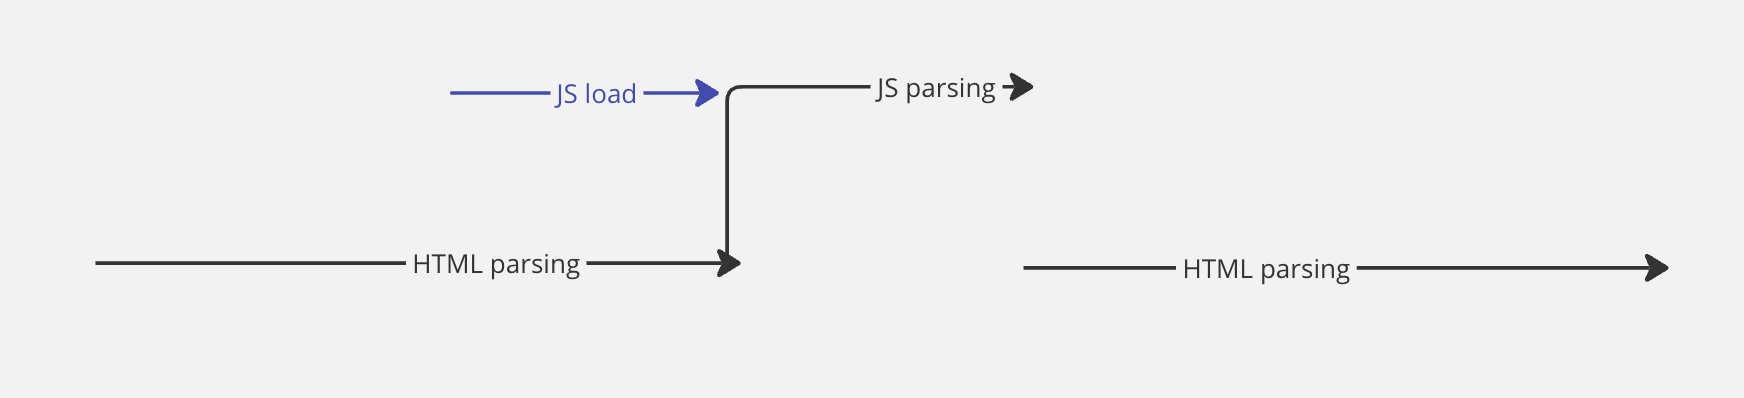
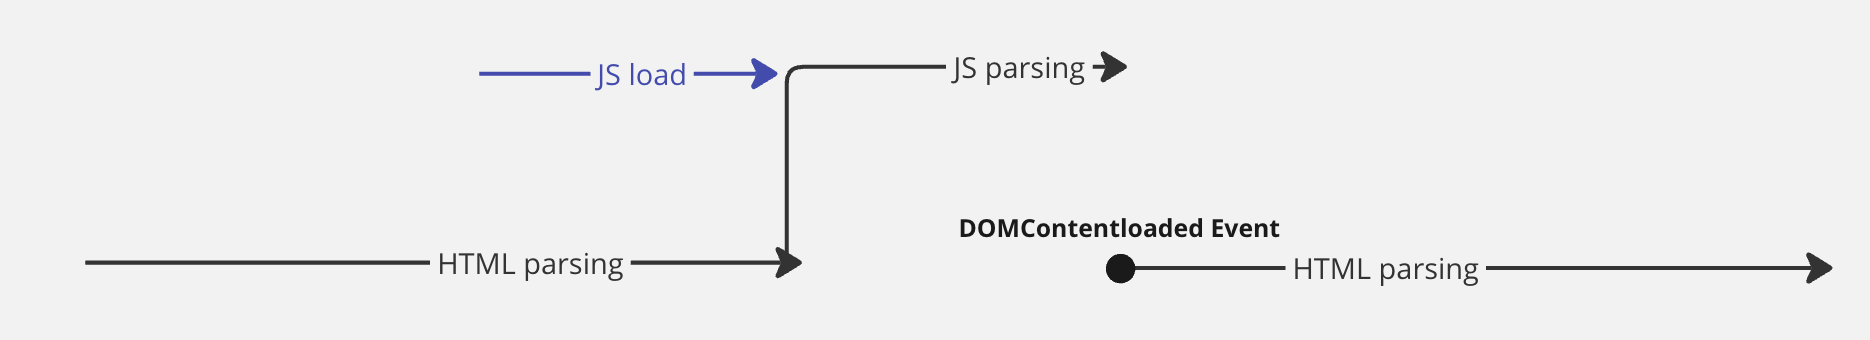
vault backup: 2024-05-28 17:19:22

Changed region(s): [[0.031, 0.1471, 0.6193, 0.8235], [0.4954, 0.6471, 0.9599, 0.7059], [0.5883, 0.7353, 0.9908, 0.8235]]

diff --git a/Web/렌더링/브라우저 렌더링 2.md b/Web/렌더링/브라우저 렌더링 2.md
@@ -49,10 +49,11 @@
 
 **async**
 
-&nbsp;&nsbp;`async` 어트리뷰트는 javascript 파일의 로드가 비동기적으로 이루어질 수 있도록 합니다. 로드된 javascript 코드의 실행은 파일의 로드가 완료된 직후 진행되며, 이때 DOM 생성은 중단됩니다.
-
 ![async attribute process](../images/async_attribute.png)
 
+&nbsp;&nsbp;`async` 어트리뷰트는 javascript 파일의 로드가 비동기적으로 이루어질 수 있도록 합니다. 로드된 javascript 코드의 실행은 파일의 로드가 완료된 직후 진행되며, 이때 DOM 생성은 중단됩니다.
+
+<br>
 
 &nbsp;&nbsp;주의해야 할 점은 `async` 어트리뷰트에 의해 javascript의 로드가 비동기적으로 이루어지는 만큼 실행되는 순서는 로드가 먼저 완료된 파일부터 진행된다는 것입니다. 아래 코드에서 3개의 `script` 태그의 순서는 `ABC` 순서이지만 코드의 실행은 로드된 순서인 `BCA` 순으로 이루어집니다.
 
@@ -62,6 +63,19 @@
 <script async src="C.js"></script> // 5ms
 ```
 
+<br>
+
+**defer**
+
+![async attribute process](../images/defer_attribute.png)
+
+&nbsp;&nbsp;`defer` 어트리뷰트를 사용하면 `async`와 마찬가지로 javascript 파일의 로드가 DOM 생성과 동기에 비동기적으로 진행될 수 있습니다. 다만, 로드된 javascript 코드의 파싱과 실행은 HTML 파싱이 끝나고 모든 DOM의 생성이 완료된 뒤 이루어지므로 DOM 생성이 완료된 후 실행되어야 하는 javascript 파일에 유용하게 사용할 수 있습니다.
+
+<br>
+
+## 마무리하며
+
+&nbsp;&nbsp;지난 포스트부터 지금까지 브라우저가 HTML, CSS, Javascript와 같은 정적 파일을 가지고 어떻게 렌더링을 진행하는지에 대해 다루어 보았습니다.
 
 <br>
 
